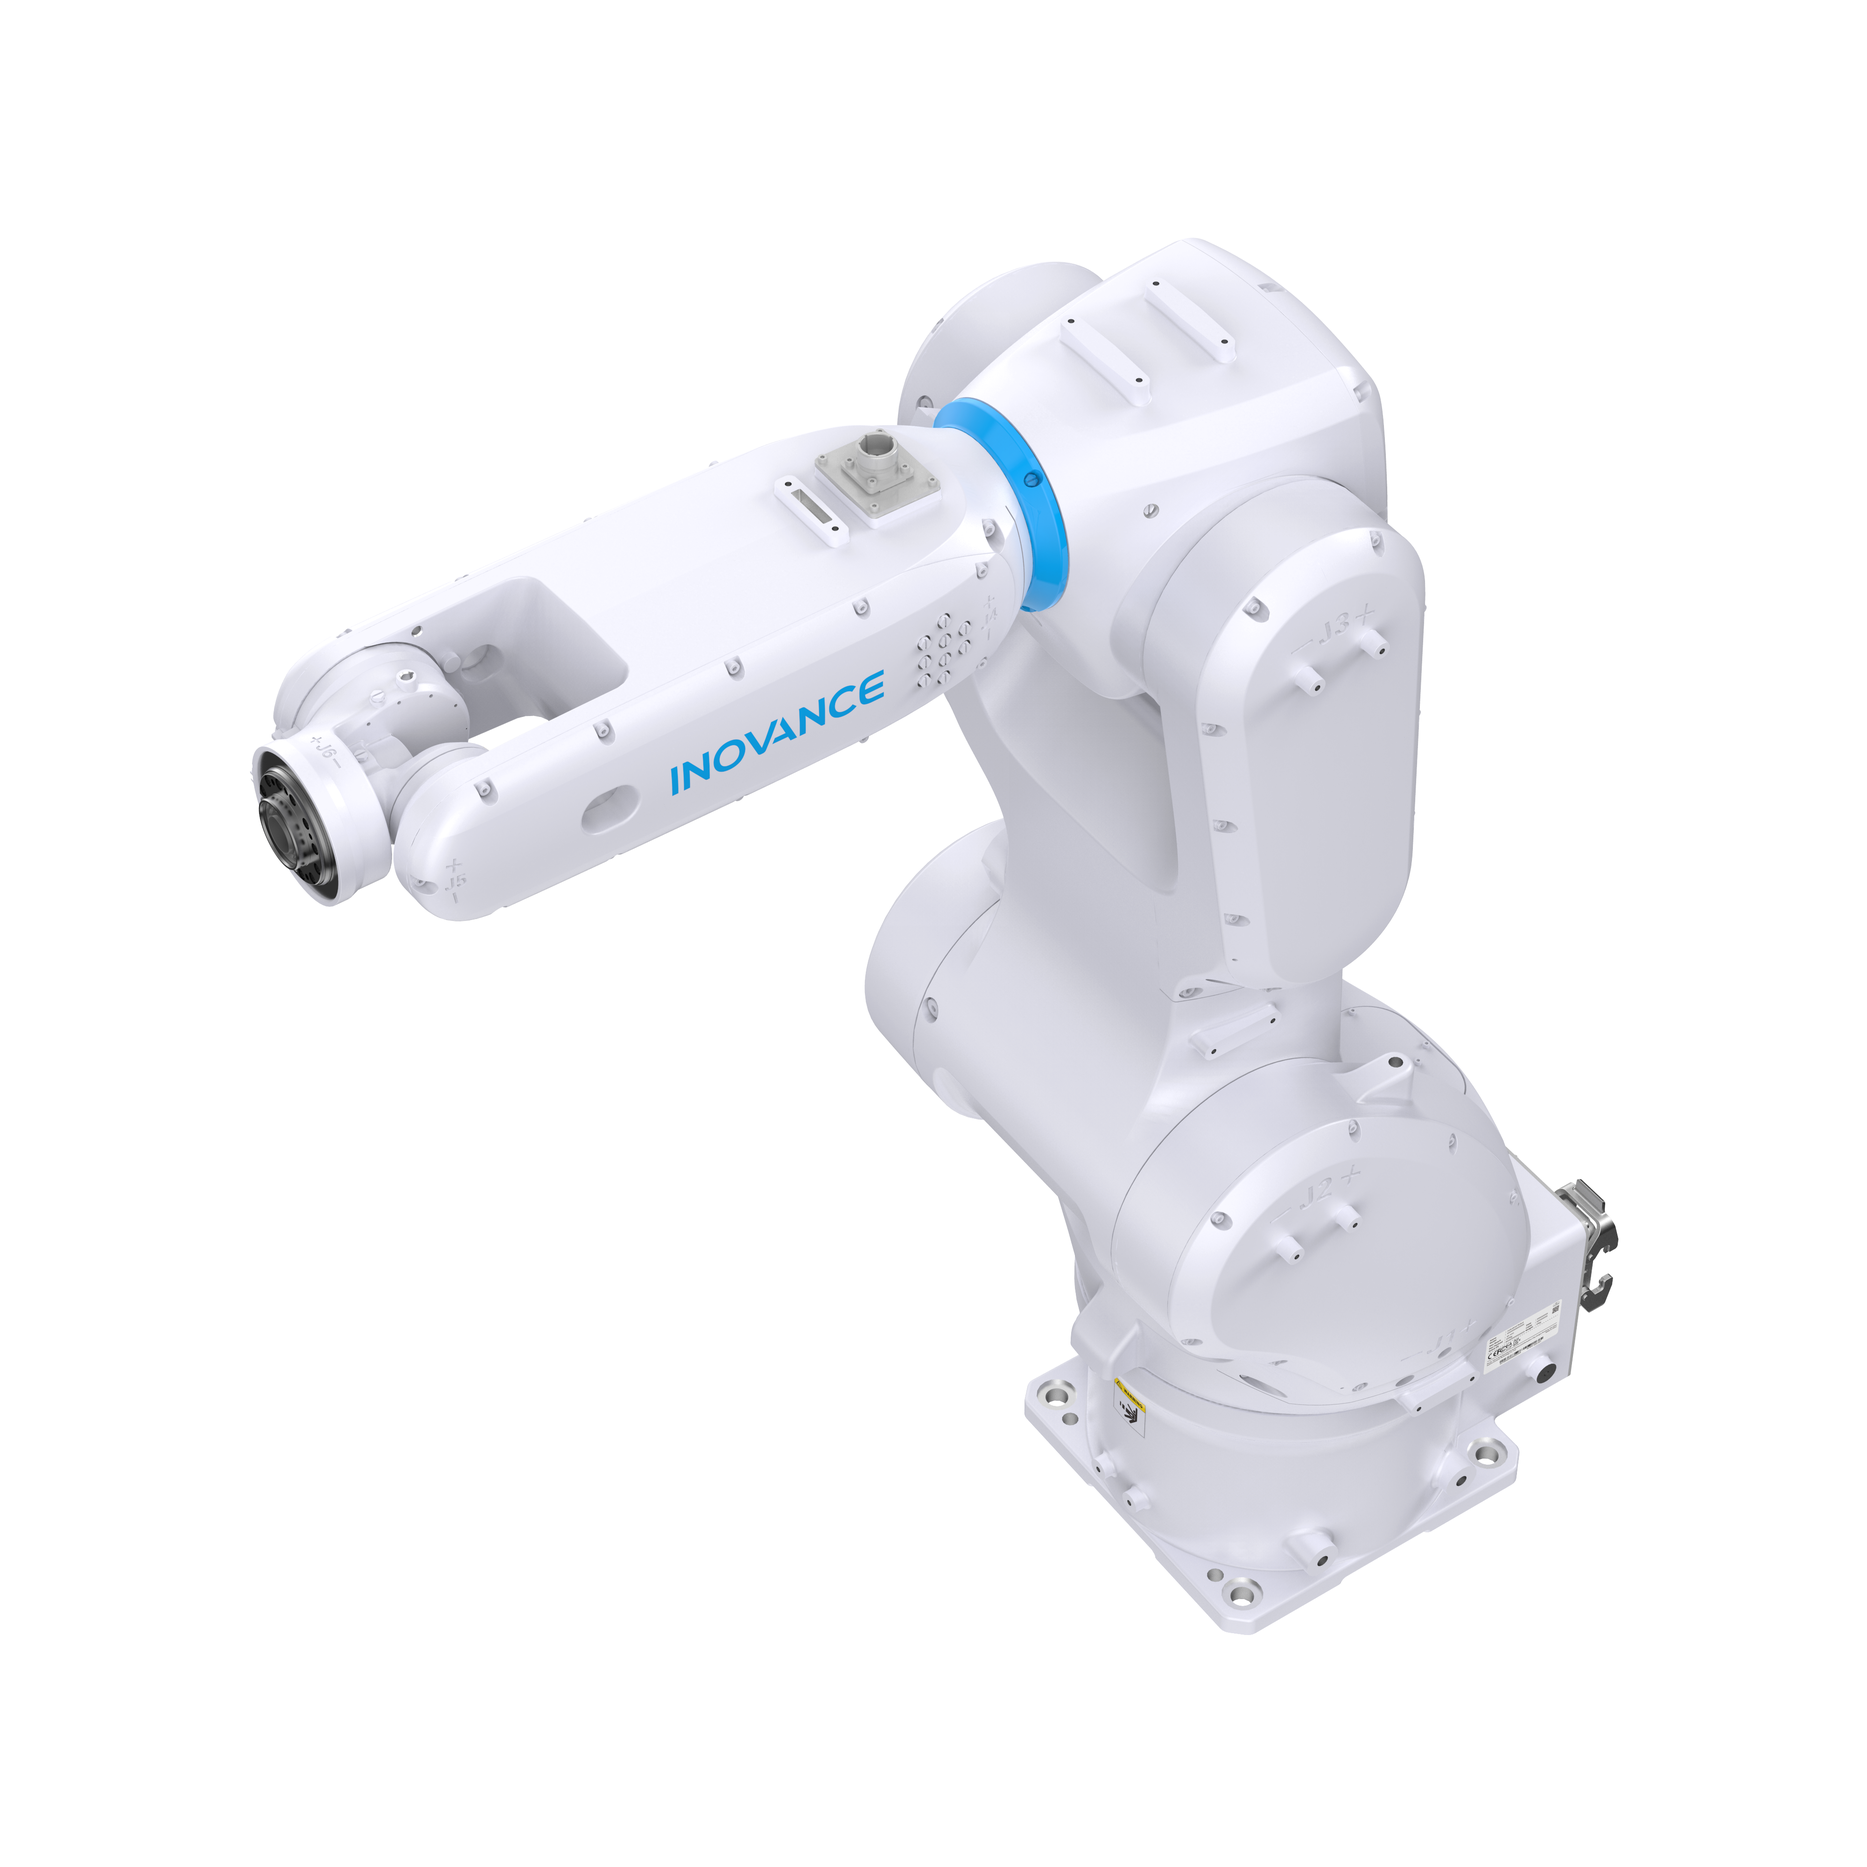
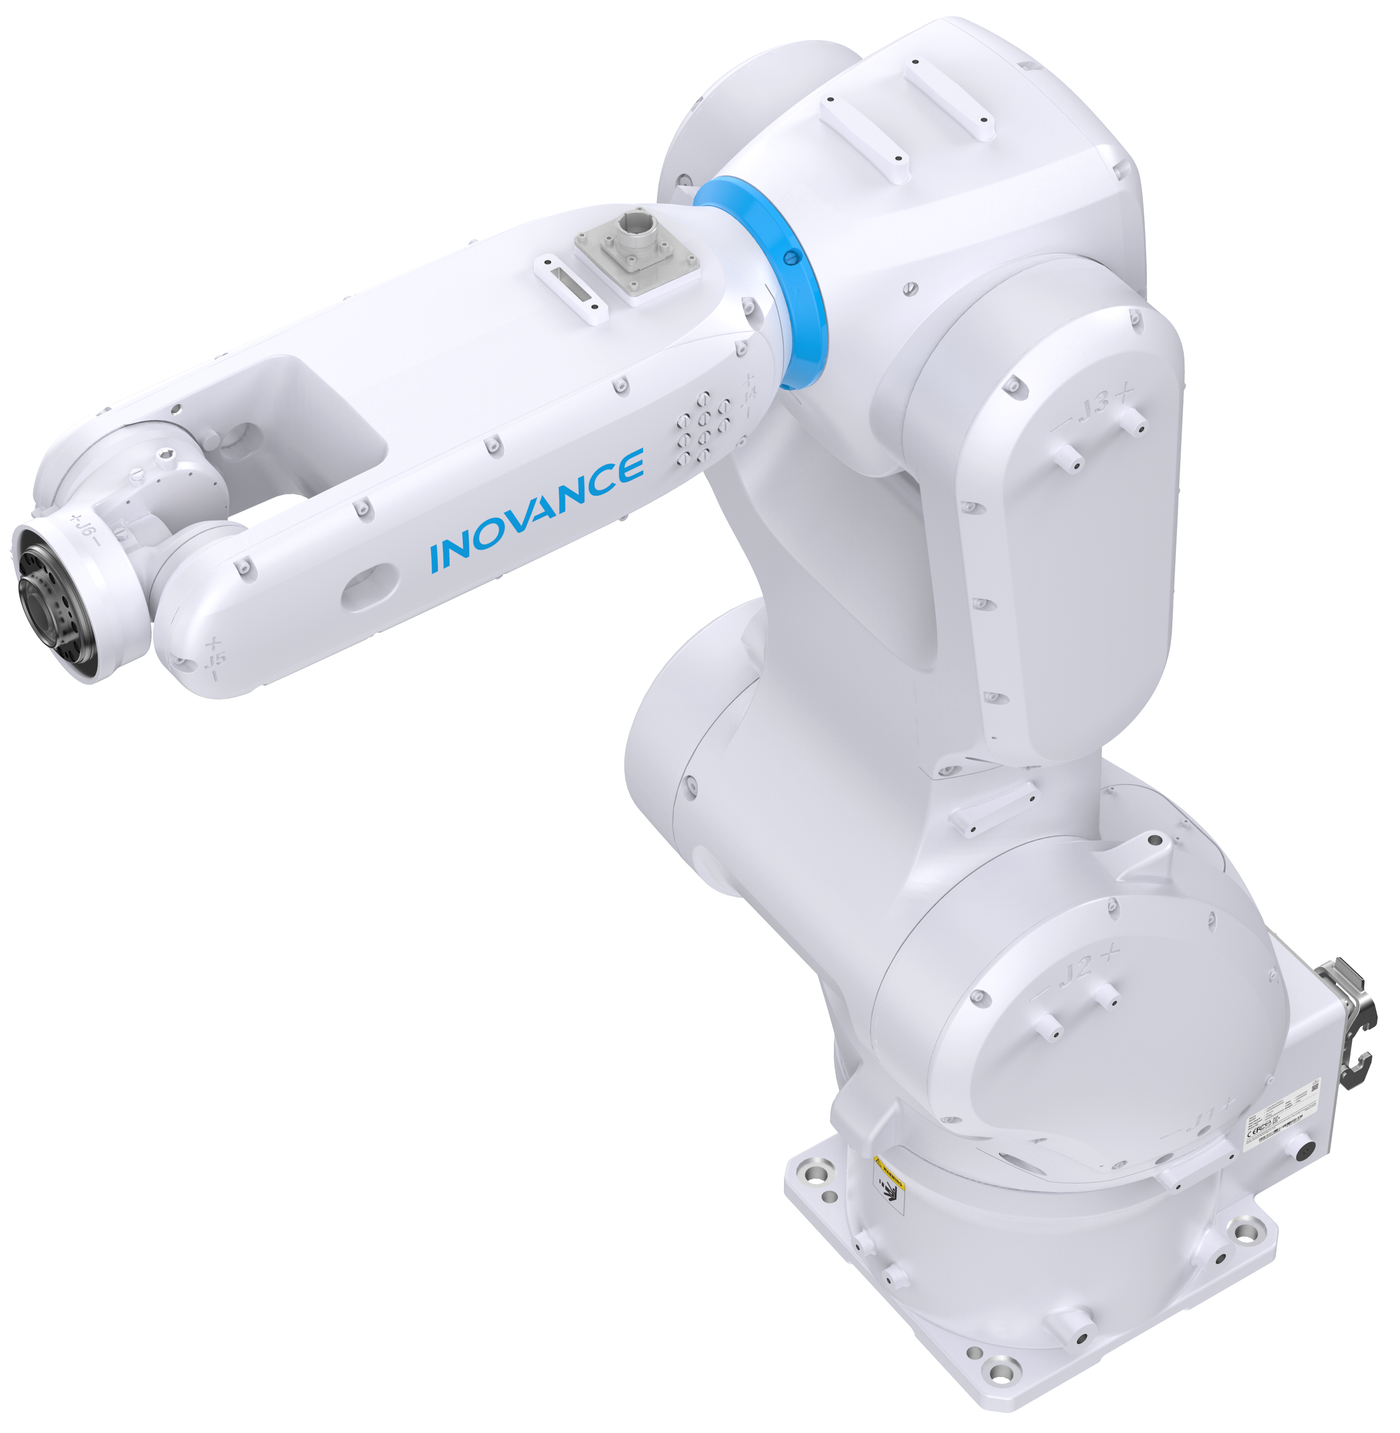
Update robot select portal: filter improvements, accessory details, and imagery

diff --git a/InoRobotSelect/script.js b/InoRobotSelect/script.js
@@ -17,6 +17,23 @@ document.addEventListener('DOMContentLoaded', () => {
         accessories: (typeof accessoriesList !== 'undefined') ? JSON.parse(JSON.stringify(accessoriesList)) : []
     };
 
+    // Initialize Sub Type for each product
+    state.products.forEach(product => {
+        const name = product.name.toUpperCase();
+        const isClean = product.specs['Clean Type'] === 'Yes';
+        let sub = '일반형';
+
+        if (name.includes('IR-CS')) {
+            sub = '경제형';
+        } else if (isClean) {
+            sub = '클린형';
+        } else if (product.specs.Type === 'SCARA' && (name.includes('TS4') || name.includes('TS5'))) {
+            sub = '천장형';
+        }
+        
+        product.specs['Sub Type'] = sub;
+    });
+
     function isModelMatch(targetStr, robotName) {
         if (!targetStr || targetStr.toLowerCase() === 'all') return true;
         const targets = targetStr.split(',').map(t => t.trim().toUpperCase());
@@ -131,21 +148,24 @@ document.addEventListener('DOMContentLoaded', () => {
             let img = 'robot.png';
 
             if (product.specs.Type === 'SCARA') {
-                if (name.includes('IR-CS')) {
-                    scaraSubtype = '경제형';
-                } else if (isClean) {
-                    scaraSubtype = '클린형';
-                } else if (name.includes('TS4') || name.includes('TS5')) {
-                    scaraSubtype = '천장형';
-                }
+                scaraSubtype = product.specs['Sub Type'];
 
                 // 이미지 선택 로직 (SCARA)
                 if (name.includes('TS4')) img = 'IR-TS4.png';
                 else if (name.includes('TS5')) img = 'IR-TS5.png';
-                else if (name.includes('S4')) img = 'IR-S4.png';
-                else if (name.includes('S7')) img = 'IR-S7.png';
-                else if (name.includes('S10')) img = 'IR-S10.png';
-                else if (name.includes('S25')) {
+                else if (name.includes('S4')) {
+                    img = isClean ? 'IR-S4_Clean.png' : 'IR-S4.png';
+                } else if (name.includes('S7')) {
+                    if (isClean && name.includes('-50')) img = 'IR-S7-50_Clean.png';
+                    else if (isClean && name.includes('-60')) img = 'IR-S7-60_Clean.png';
+                    else if (isClean && name.includes('-70')) img = 'IR-S7-70_Clean.png';
+                    else img = 'IR-S7.png';
+                } else if (name.includes('S10')) {
+                    if (isClean && name.includes('-60')) img = 'IR-S10-60_Clean.png';
+                    else if (isClean && name.includes('-70')) img = 'IR-S10-70_Clean.png';
+                    else if (isClean && name.includes('-80')) img = 'IR-S10-80_Clean.png';
+                    else img = 'IR-S10.png';
+                } else if (name.includes('S25')) {
                     img = isClean ? 'IR-S25-Clean.png' : 'IR-S25.png';
                 } else if (name.includes('S35')) {
                     // 암 길이 매칭 로직
@@ -165,6 +185,8 @@ document.addEventListener('DOMContentLoaded', () => {
                 else if (name.includes('IR-R4')) img = 'IR-R4.png';
                 else if (name.includes('IR-R7H')) img = 'IR-R7H.png';
                 else if (name.includes('IR-R10-110')) img = 'IR-R10-110.png';
+                else if (name.includes('IR-R10-140')) img = 'IR-R10-140.png';
+                else if (name.includes('IR-R10H-120')) img = 'IR-R10H-120.png';
                 else if (name.includes('IR-R11')) img = 'IR-R11.png';
                 else if (name.includes('IR-R15H')) img = 'IR-R15H.png';
                 else if (name.includes('IR-R16')) img = 'IR-R16.png';
@@ -759,9 +781,6 @@ document.addEventListener('DOMContentLoaded', () => {
         const infoHtml = `
             <div id="dynamic-purchase-code" style="font-size:14px;margin-bottom:8px;font-weight:bold;color:var(--primary-blue);">현재 구매 코드: ${baseCode}</div>
             <h2 style="color:var(--text-main);margin-bottom:12px;">${displayName}</h2>
-            <p style="font-size:14px;color:var(--text-muted);margin-bottom:24px;line-height:1.6;">
-                Inovance 산업용 로봇 (${product.specs.Type}). 제조 과정의 높은 정밀도와 효율성을 위해 설계되었습니다.
-            </p>
             
             <h4 style="margin-bottom: 12px; color: var(--text-main);">로봇 구성 선택</h4>
             
@@ -775,39 +794,39 @@ document.addEventListener('DOMContentLoaded', () => {
             </div>
 
             <div style="margin-bottom:20px; border-top:1px dashed rgba(255,255,255,0.1); padding-top:16px;">
-                <label style="display:block; font-size:13px; font-weight:bold; margin-bottom:6px; color: var(--text-main);">티칭 펜던트 길이 선택 (유로 옵션)</label>
+                <label id="header-pendant" style="display:block; font-size:13px; font-weight:bold; margin-bottom:6px; color: var(--text-main);">티칭 펜던트 구성 (유로 옵션)</label>
                 <div id="pendant-container" style="display:flex; flex-direction:column; gap:8px;"></div>
             </div>
 
             ${product.specs.Type === '6-Axis' ? `
             <div style="margin-bottom:12px; border-top:1px dashed rgba(255,255,255,0.1); padding-top:16px;">
-                <label style="display:block; font-size:13px; font-weight:bold; margin-bottom:6px; color: var(--text-main);">Arm I/O 케이블 구성</label>
+                <label id="header-arm" style="display:block; font-size:13px; font-weight:bold; margin-bottom:6px; color: var(--text-main);">Arm I/O 케이블 구성 (유로 옵션)</label>
                 <div id="arm-container" style="display:flex; flex-direction:column; gap:8px;"></div>
             </div>
             <div style="margin-bottom:20px; border-top:1px dashed rgba(255,255,255,0.1); padding-top:16px;">
-                <label style="display:block; font-size:13px; font-weight:bold; margin-bottom:6px; color: var(--text-main);">Body I/O 케이블 구성</label>
+                <label id="header-body" style="display:block; font-size:13px; font-weight:bold; margin-bottom:6px; color: var(--text-main);">Body I/O 케이블 구성 (유로 옵션)</label>
                 <div id="body-container" style="display:flex; flex-direction:column; gap:8px;"></div>
             </div>` : ''}
 
             <div style="margin-bottom:20px; border-top:1px dashed rgba(255,255,255,0.1); padding-top:16px;">
-                <label style="display:block; font-size:13px; font-weight:bold; margin-bottom:6px; color: var(--text-main);">기타 악세서리</label>
+                <label id="header-other" style="display:block; font-size:13px; font-weight:bold; margin-bottom:6px; color: var(--text-main);">기타 악세서리</label>
                 <div id="other-accessories-container" style="display:flex; flex-direction:column; gap:8px;"></div>
             </div>
 
             <div style="margin-bottom:20px; border-top:1px dashed rgba(255,255,255,0.1); padding-top:16px;">
-                <label style="display:block; font-size:13px; font-weight:bold; margin-bottom:6px; color: var(--text-main);">통신 프로토콜 옵션 (확장카드 옵션)</label>
+                <label id="header-comm" style="display:block; font-size:13px; font-weight:bold; margin-bottom:6px; color: var(--text-main);">통신 프로토콜 옵션 (확장카드 옵션)</label>
                 <p style="font-size:11px; color:var(--text-muted); margin-bottom:8px;">Modbus-RTU, Modbus-TCP, EtherNet/IP, EtherCAT, MC 통신은 기본 제공됩니다.</p>
                 <div id="comm-radios" style="display:flex; flex-wrap:wrap; gap:10px;">
                     <label class="cable-option" style="margin:0;">
-                        <input type="radio" name="commSelection" value="none" checked>
+                        <input type="radio" name="commSelection" value="none" checked data-code="">
                         <span>기본 프로토콜 사용</span>
                     </label>
                     <label class="cable-option" style="margin:0;">
-                        <input type="radio" name="commSelection" value="PROFINET">
+                        <input type="radio" name="commSelection" value="PROFINET" data-code="PROFINET">
                         <span>PROFINET</span>
                     </label>
                     <label class="cable-option" style="margin:0;">
-                        <input type="radio" name="commSelection" value="CC-Link">
+                        <input type="radio" name="commSelection" value="CC-Link" data-code="CC-Link">
                         <span>CC-Link</span>
                     </label>
                 </div>
@@ -856,6 +875,49 @@ document.addEventListener('DOMContentLoaded', () => {
             typeContainer.appendChild(btn);
         });
 
+        // Function to update dynamic header codes
+        function updateHeaderCodes() {
+            // Pendant
+            const pSel = rightCol.querySelector('input[name="pendantLength"]:checked');
+            const pHeader = rightCol.querySelector('#header-pendant');
+            if (pHeader) {
+                const code = (pSel && pSel.value !== 'none') ? ` (${pSel.value})` : '';
+                pHeader.textContent = `티칭 펜던트 구성 (유로 옵션)${code}`;
+            }
+
+            // Arm
+            const armSel = rightCol.querySelector('input[name="armSelectionCode"]:checked');
+            const armHeader = rightCol.querySelector('#header-arm');
+            if (armHeader) {
+                const code = (armSel && armSel.value !== 'none') ? ` (${armSel.value})` : '';
+                armHeader.textContent = `Arm I/O 케이블 구성 (유로 옵션)${code}`;
+            }
+
+            // Body
+            const bodySel = rightCol.querySelector('input[name="bodySelectionCode"]:checked');
+            const bodyHeader = rightCol.querySelector('#header-body');
+            if (bodyHeader) {
+                const code = (bodySel && bodySel.value !== 'none') ? ` (${bodySel.value})` : '';
+                bodyHeader.textContent = `Body I/O 케이블 구성 (유로 옵션)${code}`;
+            }
+
+            // Other
+            const otherHeader = rightCol.querySelector('#header-other');
+            if (otherHeader) {
+                const selectedCodes = Array.from(rightCol.querySelectorAll('input[name="accSelection"]:checked')).map(cb => cb.value);
+                const code = selectedCodes.length > 0 ? ` (${selectedCodes.join(', ')})` : '';
+                otherHeader.textContent = `기타 악세서리${code}`;
+            }
+
+            // Comm
+            const commSel = rightCol.querySelector('input[name="commSelection"]:checked');
+            const commHeader = rightCol.querySelector('#header-comm');
+            if (commHeader) {
+                const code = (commSel && commSel.value !== 'none') ? ` (${commSel.value})` : '';
+                commHeader.textContent = `통신 프로토콜 옵션 (확장카드 옵션)${code}`;
+            }
+        }
+
         // Function to update dynamic code display
         function updateDynamicCode() {
             const lenEl = rightCol.querySelector('input[name="cableLenSelection"]:checked');
@@ -876,12 +938,12 @@ document.addEventListener('DOMContentLoaded', () => {
                 const finalCode = matched ? matched.code : (product.cables.length > 0 ? product.cables[0].code : 'N/A');
                 codeDisplay.textContent = `현재 구매 코드: ${finalCode} `;
             }
+            updateHeaderCodes();
         }
 
         lenContainer.addEventListener('change', updateDynamicCode);
         typeContainer.addEventListener('change', updateDynamicCode);
-        updateDynamicCode();
-
+        
         // Accessory Filtering Logic
         const accs = state.accessories;
         const prodName = product.name;
@@ -908,6 +970,7 @@ document.addEventListener('DOMContentLoaded', () => {
                 </label>
             `;
         });
+        pRadios.addEventListener('change', updateHeaderCodes);
 
         // 2. Arm / Body Cable Logic
         if (product.specs.Type === '6-Axis') {
@@ -918,8 +981,14 @@ document.addEventListener('DOMContentLoaded', () => {
                 armContainer.innerHTML = `<div style="display:flex; flex-wrap:wrap; gap:10px;" id="arm-radios"><label class="cable-option" style="margin:0;"><input type="radio" name="armSelectionCode" value="none" checked><span>사용안함</span></label></div>`;
                 const armRadios = armContainer.querySelector('#arm-radios');
                 armOptions.forEach(opt => {
-                    armRadios.innerHTML += `<label class="cable-option" style="margin:0;"><input type="radio" name="armSelectionCode" value="${opt.code}" data-desc="${opt.description}"><span>${opt.spec}</span></label>`;
+                    const isFlex = opt.description.toLowerCase().includes('flexible');
+                    let displaySpec = opt.spec;
+                    if (opt.spec === '-') displaySpec = '커넥터만';
+                    else displaySpec = `${opt.spec} (${isFlex ? '플렉시블' : '논플렉시블'})`;
+
+                    armRadios.innerHTML += `<label class="cable-option" style="margin:0;"><input type="radio" name="armSelectionCode" value="${opt.code}" data-desc="${opt.description}"><span>${displaySpec}</span></label>`;
                 });
+                armRadios.addEventListener('change', updateHeaderCodes);
             } else {
                 armContainer.innerHTML = `<span style="font-size:13px; color:#999;">해당 모델에 호환되는 Arm 케이블 옵션이 없습니다.</span>`;
             }
@@ -931,8 +1000,14 @@ document.addEventListener('DOMContentLoaded', () => {
                 bodyContainer.innerHTML = `<div style="display:flex; flex-wrap:wrap; gap:10px;" id="body-radios"><label class="cable-option" style="margin:0;"><input type="radio" name="bodySelectionCode" value="none" checked><span>사용안함</span></label></div>`;
                 const bodyRadios = bodyContainer.querySelector('#body-radios');
                 bodyOptions.forEach(opt => {
-                    bodyRadios.innerHTML += `<label class="cable-option" style="margin:0;"><input type="radio" name="bodySelectionCode" value="${opt.code}" data-desc="${opt.description}"><span>${opt.spec}</span></label>`;
+                    const isFlex = opt.description.toLowerCase().includes('flexible');
+                    let displaySpec = opt.spec;
+                    if (opt.spec === '-') displaySpec = '커넥터만';
+                    else displaySpec = `${opt.spec} (${isFlex ? '플렉시블' : '논플렉시블'})`;
+
+                    bodyRadios.innerHTML += `<label class="cable-option" style="margin:0;"><input type="radio" name="bodySelectionCode" value="${opt.code}" data-desc="${opt.description}"><span>${displaySpec}</span></label>`;
                 });
+                bodyRadios.addEventListener('change', updateHeaderCodes);
             } else {
                 bodyContainer.innerHTML = `<span style="font-size:13px; color:#999;">해당 모델에 호환되는 Body 케이블 옵션이 없습니다.</span>`;
             }
@@ -944,6 +1019,8 @@ document.addEventListener('DOMContentLoaded', () => {
             if (a.type === 'Pendant') return false;
             if (a.name === 'Robot arm I/O cable' || a.name === 'Robot Body I/O cable') return false;
             if (a.type === 'Software' && a.name.includes('Simulation')) return false;
+            if (a.description.includes('1.0 TP Connector')) return false; // Filter Dummy Plug 1.0TP
+            if (a.description.includes('TP2.0 adapter to old version')) return false; // Filter old adapter
             return isModelMatch(a.target_models, prodName);
         });
 

diff --git a/InoRobotSelect/data.js b/InoRobotSelect/data.js
@@ -206,26 +206,24 @@ const filtersData = [
         ]
     },
     {
-        "id": "Clean Type",
-        "label": "클린 타입",
+        "id": "Sub Type",
+        "label": "타입",
         "options": [
             {
-                "id": "No",
-                "label": "No"
+                "id": "일반형",
+                "label": "일반형"
             },
             {
-                "id": "Yes",
-                "label": "Yes"
-            }
-        ]
-    },
-    {
-        "id": "Ceiling Mount",
-        "label": "천장 설치",
-        "options": [
+                "id": "경제형",
+                "label": "경제형"
+            },
             {
-                "id": "Yes",
-                "label": "Yes"
+                "id": "클린형",
+                "label": "클린형"
+            },
+            {
+                "id": "천장형",
+                "label": "천장형"
             }
         ]
     }

diff --git a/InoRobotSelect/index.html b/InoRobotSelect/index.html
@@ -34,7 +34,6 @@
             <div class="filter-header">
                 <div class="filter-title-wrap">
                     <h2>제품 파라미터 필터</h2>
-                    <span class="info-icon">?</span>
                 </div>
                 <button id="reset-btn" class="reset-btn">
                     <svg width="14" height="14" viewBox="0 0 24 24" fill="none" stroke="currentColor" stroke-width="2">
@@ -49,13 +48,7 @@
                 <!-- Filters will be generated dynamically -->
             </div>
 
-            <div class="filter-footer">
-                <button class="more-filters-btn">필터 더보기
-                    <svg width="12" height="12" viewBox="0 0 24 24" fill="none" stroke="currentColor" stroke-width="2">
-                        <path d="m6 9 6 6 6-6" />
-                    </svg>
-                </button>
-            </div>
+
         </section>
 
         <!-- Product List Section -->
